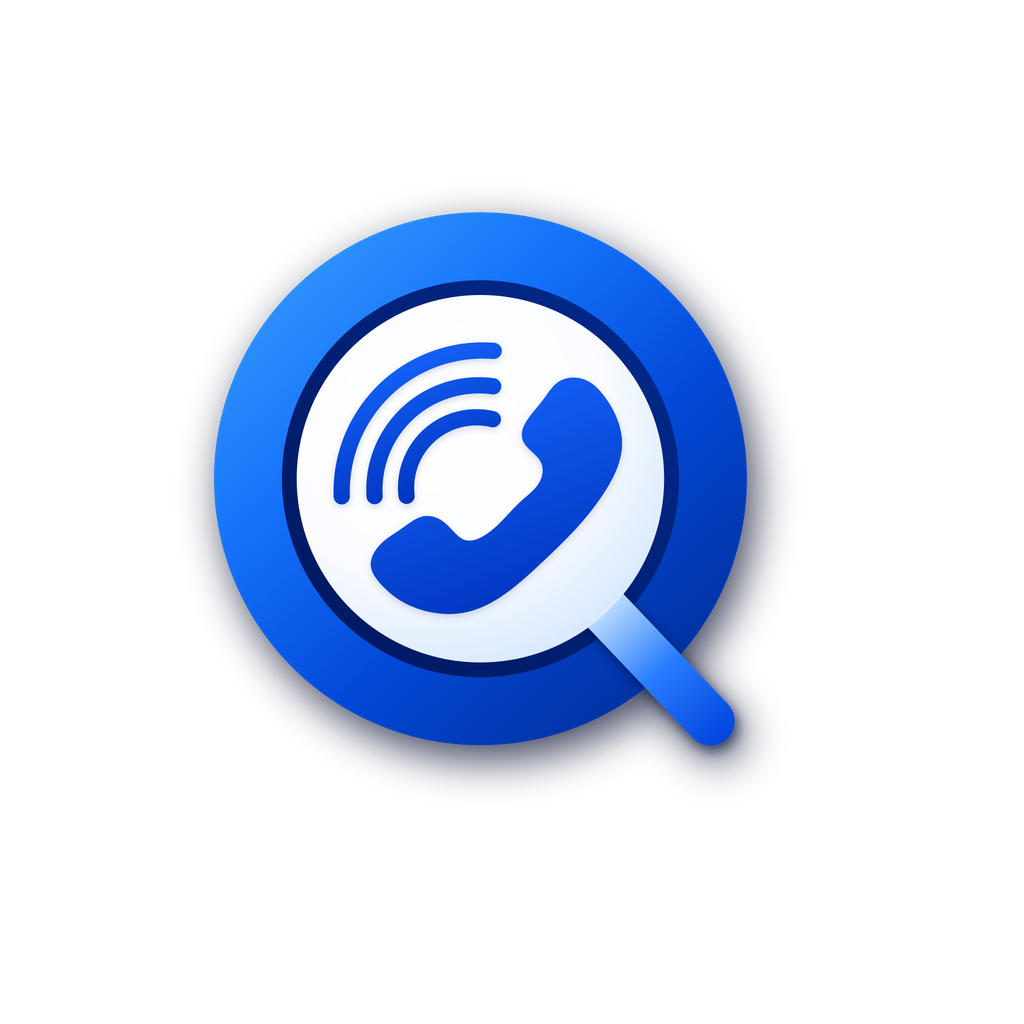
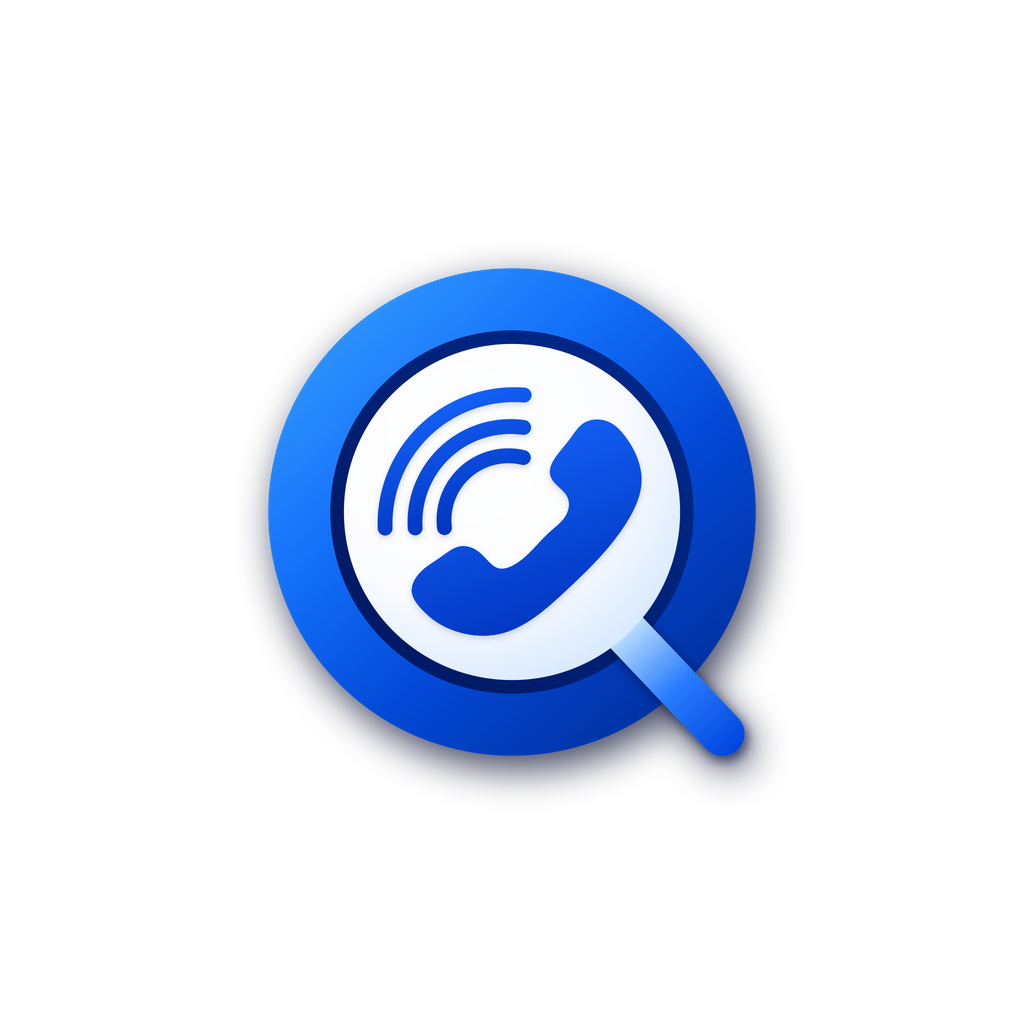
Android: lupa ikonka markaziga olindi; «romb» uslubi qo'shildi
- Adaptiv ikonkada lupa markazi aynan tuval markazida (avval dasta
  tomonga surilgan edi — Android'da lupa burchakka siljib ko'rinardi)
- tool/icon_romb.py: asl dizayn (yumaloq romb, tekis ranglar, oq fon)
- python3 tool/make_icons.py romb — shu uslubdagi barcha ikonkalar

Claude-Session: https://claude.ai/code/session_01C6ioWyqxUh5f1tL6mQytvS

Changed region(s): [[0.1875, 0.1875, 0.7812, 0.7812], [0.6875, 0.6875, 0.75, 0.75]]

diff --git a/tool/icon_romb.py b/tool/icon_romb.py
@@ -1,0 +1,150 @@
+"""«Romb» uslubidagi belgi: asl dizayn — yumaloq romb ichida lupa.
+
+make_icons.py tomonidan ishlatiladi:  python3 tool/make_icons.py romb
+
+Birlik: (0,0) — linza markazi, linza radiusi 309. Shakl foydalanuvchi
+bergan asl rasmdan o'lchab olingan; ranglar tekis (asl rasmdagidek).
+"""
+
+import math
+
+# Go'shak — asl rasmdan ko'chirilgan kontur
+HANDSET = (
+    'M -53.4 209.7 L -58.2 210.2 L -63.0 210.5 L -67.9 210.6 L -72.8 210.5 '
+    'L -77.7 210.1 L -82.5 209.5 L -87.3 208.6 L -92.0 207.4 L -96.6 206.0 '
+    'L -101.1 204.4 L -105.5 202.4 L -109.8 200.3 L -114.0 197.9 '
+    'L -118.0 195.3 L -122.0 192.5 L -125.9 189.6 L -129.8 186.6 '
+    'L -133.6 183.6 L -137.3 180.4 L -141.0 177.2 L -144.6 173.9 '
+    'L -148.2 170.5 L -151.6 167.0 L -155.0 163.4 L -158.2 159.7 '
+    'L -161.3 155.7 L -164.2 151.7 L -166.7 147.5 L -168.5 143.1 '
+    'L -169.4 138.6 L -169.4 134.0 L -168.6 129.3 L -167.1 124.6 '
+    'L -165.2 120.1 L -162.9 115.7 L -160.5 111.6 L -157.8 107.6 '
+    'L -154.9 103.8 L -151.8 100.2 L -148.5 96.8 L -145.1 93.4 L -141.6 90.2 '
+    'L -137.9 87.1 L -134.0 84.1 L -130.1 81.2 L -126.1 78.3 L -122.0 75.5 '
+    'L -117.8 72.7 L -113.6 69.9 L -109.3 67.2 L -105.0 64.5 L -100.7 61.9 '
+    'L -96.4 59.6 L -92.0 57.7 L -87.7 56.2 L -83.4 55.2 L -79.1 55.0 '
+    'L -74.8 55.5 L -70.6 57.0 L -66.5 59.3 L -62.4 62.2 L -58.7 65.7 '
+    'L -55.2 69.4 L -51.9 73.3 L -48.7 77.2 L -45.4 81.1 L -42.0 84.6 '
+    'L -38.2 87.8 L -34.2 90.5 L -30.0 92.5 L -25.5 93.8 L -20.9 94.2 '
+    'L -16.2 93.9 L -11.6 93.0 L -7.1 91.4 L -2.9 89.3 L 1.1 86.8 L 5.0 83.8 '
+    'L 8.7 80.5 L 12.3 77.1 L 15.8 73.4 L 19.2 69.8 L 22.6 66.1 L 26.0 62.5 '
+    'L 29.4 58.9 L 32.8 55.4 L 36.2 51.9 L 39.5 48.4 L 42.9 44.9 L 46.4 41.5 '
+    'L 49.8 38.1 L 53.2 34.7 L 56.7 31.3 L 60.2 27.9 L 63.8 24.6 L 67.3 21.2 '
+    'L 70.9 17.8 L 74.6 14.4 L 78.3 10.9 L 81.9 7.4 L 85.4 3.9 L 88.6 0.2 '
+    'L 91.5 -3.7 L 94.1 -7.7 L 96.1 -12.0 L 97.6 -16.5 L 98.4 -21.2 '
+    'L 98.6 -25.9 L 98.2 -30.7 L 97.0 -35.2 L 95.0 -39.5 L 92.4 -43.4 '
+    'L 89.3 -47.1 L 85.7 -50.5 L 81.9 -53.9 L 78.0 -57.2 L 74.1 -60.5 '
+    'L 70.4 -63.8 L 67.0 -67.2 L 64.1 -70.8 L 61.8 -74.7 L 60.3 -78.7 '
+    'L 59.6 -83.1 L 59.8 -87.8 L 60.7 -92.6 L 62.3 -97.4 L 64.3 -102.1 '
+    'L 66.6 -106.5 L 69.2 -110.8 L 71.9 -114.9 L 74.7 -118.8 L 77.5 -122.8 '
+    'L 80.3 -126.7 L 83.2 -130.5 L 86.1 -134.3 L 89.0 -138.1 L 92.0 -141.9 '
+    'L 95.1 -145.6 L 98.3 -149.3 L 101.6 -153.0 L 105.0 -156.5 '
+    'L 108.6 -159.9 L 112.4 -163.1 L 116.4 -166.0 L 120.5 -168.5 '
+    'L 124.9 -170.5 L 129.5 -172.1 L 134.3 -173.1 L 139.2 -173.5 '
+    'L 144.1 -173.3 L 148.7 -172.4 L 153.1 -170.7 L 157.2 -168.4 '
+    'L 161.1 -165.6 L 164.8 -162.5 L 168.4 -159.2 L 172.1 -155.9 '
+    'L 175.7 -152.6 L 179.3 -149.2 L 182.8 -145.7 L 186.2 -142.1 '
+    'L 189.5 -138.5 L 192.6 -134.7 L 195.6 -130.8 L 198.3 -126.7 '
+    'L 200.8 -122.6 L 203.2 -118.3 L 205.3 -113.9 L 207.2 -109.5 '
+    'L 208.9 -105.0 L 210.5 -100.4 L 211.8 -95.7 L 212.9 -91.1 L 213.7 -86.3 '
+    'L 214.4 -81.6 L 214.8 -76.8 L 215.1 -72.0 L 215.1 -67.2 L 214.8 -62.5 '
+    'L 214.4 -57.7 L 213.7 -53.0 L 212.8 -48.4 L 211.6 -43.7 L 210.2 -39.2 '
+    'L 208.7 -34.6 L 207.0 -30.1 L 205.0 -25.7 L 202.9 -21.3 L 200.7 -16.9 '
+    'L 198.3 -12.7 L 195.8 -8.4 L 193.2 -4.2 L 190.5 -0.1 L 187.7 4.0 '
+    'L 184.8 8.0 L 181.8 11.9 L 178.7 15.8 L 175.7 19.6 L 172.5 23.4 '
+    'L 169.4 27.1 L 166.2 30.8 L 162.9 34.4 L 159.6 38.0 L 156.3 41.5 '
+    'L 153.0 45.0 L 149.7 48.5 L 146.3 52.0 L 142.9 55.4 L 139.5 58.9 '
+    'L 136.1 62.3 L 132.6 65.7 L 129.2 69.2 L 125.7 72.6 L 122.2 76.0 '
+    'L 118.8 79.5 L 115.3 83.0 L 111.8 86.4 L 108.3 89.9 L 104.8 93.4 '
+    'L 101.3 96.9 L 97.9 100.4 L 94.4 103.9 L 90.9 107.4 L 87.4 110.9 '
+    'L 83.9 114.3 L 80.4 117.8 L 77.0 121.3 L 73.5 124.8 L 70.0 128.3 '
+    'L 66.6 131.7 L 63.1 135.2 L 59.7 138.6 L 56.2 142.0 L 52.7 145.4 '
+    'L 49.2 148.8 L 45.7 152.1 L 42.1 155.4 L 38.5 158.7 L 34.9 161.9 '
+    'L 31.2 165.1 L 27.5 168.3 L 23.8 171.3 L 20.0 174.4 L 16.1 177.4 '
+    'L 12.2 180.3 L 8.2 183.1 L 4.2 185.9 L 0.1 188.5 L -4.0 191.1 '
+    'L -8.2 193.6 L -12.5 195.9 L -16.8 198.1 L -21.2 200.1 L -25.6 202.0 '
+    'L -30.1 203.8 L -34.6 205.3 L -39.2 206.7 L -43.9 207.9 L -48.6 208.9 Z'
+)
+
+SHAPE_A = 443           # romb tomonigacha masofa (diagonal bo'yicha)
+SHAPE_N = 2.5           # superellips darajasi
+LENS_R = 309
+SHADOW = (-4, 36)       # linza soyasi (asosan pastga)
+
+HANDLE_W = 102
+NECK_END = 439          # oq bo'yin romb chetida tugaydi
+HANDLE_START = 449      # tirqishdan keyin dasta
+HANDLE_TIP = 617        # dasta uchi — belgining eng uzoq nuqtasi
+
+WAVES_C = (15, 17.5)
+WAVES_R = (116, 168.5, 220)
+WAVE_W = 22
+
+BLUE = '#235FC8'
+SHADE = '#1D50AE'
+
+# Romb uchi (o'qlar bo'yicha) — iOS joylashuvi uchun
+CORNER = SHAPE_A * 2 ** (0.5 - 1 / SHAPE_N)
+
+
+def _diag(d):
+    k = d / math.sqrt(2)
+    return round(k, 2), round(k, 2)
+
+
+def shape_path(steps=720):
+    """45° ga burilgan superellips."""
+    pts = []
+    cr = sr = math.cos(math.radians(45))
+    for i in range(steps):
+        t = 2 * math.pi * i / steps
+        c, s = math.cos(t), math.sin(t)
+        x = SHAPE_A * math.copysign(abs(c) ** (2 / SHAPE_N), c)
+        y = SHAPE_A * math.copysign(abs(s) ** (2 / SHAPE_N), s)
+        pts.append(f'{x * cr - y * sr:.2f} {x * sr + y * cr:.2f}')
+    return 'M ' + ' L '.join(pts) + ' Z'
+
+
+def _handle_path():
+    h = HANDLE_W / 2
+    k = h / math.sqrt(2)
+    sx, sy = _diag(HANDLE_START)
+    ex, ey = _diag(HANDLE_TIP - h)
+    return (f'M {sx + k:.1f} {sy - k:.1f} L {ex + k:.1f} {ey - k:.1f} '
+            f'A {h} {h} 0 0 1 {ex - k:.1f} {ey + k:.1f} L {sx - k:.1f} {sy + k:.1f} Z')
+
+
+def _waves():
+    cx, cy = WAVES_C
+    d = []
+    for r in WAVES_R:
+        a0, a1 = math.radians(180), math.radians(270)
+        d.append(f'M {cx + r * math.cos(a0):.1f} {cy + r * math.sin(a0):.1f} '
+                 f'A {r} {r} 0 0 1 {cx + r * math.cos(a1):.1f} {cy + r * math.sin(a1):.1f}')
+    return ' '.join(d)
+
+
+def body():
+    shape = shape_path()
+    nx, ny = _diag(NECK_END)
+    sdx, sdy = SHADOW
+    return f'''
+  <defs><clipPath id="romb"><path d="{shape}"/></clipPath></defs>
+  <path d="{shape}" fill="{BLUE}"/>
+  <g clip-path="url(#romb)">
+    <g transform="translate({sdx} {sdy})">
+      <circle r="{LENS_R}" fill="{SHADE}"/>
+      <line x1="0" y1="0" x2="{nx}" y2="{ny}" stroke="{SHADE}" stroke-width="{HANDLE_W}"/>
+    </g>
+    <line x1="0" y1="0" x2="{nx}" y2="{ny}" stroke="#FFFFFF" stroke-width="{HANDLE_W}"/>
+  </g>
+  <circle r="{LENS_R}" fill="#FFFFFF"/>
+  <path d="{_handle_path()}" fill="{BLUE}"/>
+  <path d="{_waves()}" fill="none" stroke="{BLUE}" stroke-width="{WAVE_W}" stroke-linecap="round"/>
+  <path d="{HANDSET}" fill="{BLUE}"/>'''
+
+
+def extents():
+    """Belgining chegaralari (birlikda): chap, yuqori, o'ng, past."""
+    tip = _diag(HANDLE_TIP)[0]
+    return -CORNER, -CORNER, max(CORNER, tip), max(CORNER, tip)

diff --git a/tool/make_icons.py b/tool/make_icons.py
@@ -3,7 +3,8 @@
 
 Ishlatish (loyiha ildizidan):
     pip install cairosvg pillow
-    python3 tool/make_icons.py
+    python3 tool/make_icons.py          # «halqa» uslubi (to'q ko'k fon)
+    python3 tool/make_icons.py romb     # asl dizayn: romb, oq fon
 
 Natija (assets/):
     icon_ios.png        1024x1024, RGB  — iOS ikonkasi (shaffofliksiz)
@@ -36,6 +37,12 @@ ROOT = os.path.dirname(os.path.dirname(os.path.abspath(__file__)))
 ASSETS = os.path.join(ROOT, 'assets')
 
 SPLASH_BG = (0x05, 0x19, 0x3F)  # pubspec.yaml: flutter_native_splash.color
+
+# Android adaptiv ikonkasi: lupa markazi AYNAN tuval markazida turadi,
+# belgining eng uzoq nuqtasi (dasta uchi) markazdan tuvalning shuncha
+# ulushida bo'ladi. Ko'rinadigan doira — 72/108 = 0.333; 0.32 da dasta
+# uchi doira chetiga tegmaydi, kvadrat/tomchi shakllarda esa bemalol sig'adi.
+ANDROID_TIP = 0.32
 
 # ── Geometriya (birlik: namunadagi piksel; (0,0) — lupa markazi) ──
 # Namuna 1254x1254, lupa markazi (619.5, 589.5) — biroz yuqorida, chunki
@@ -287,30 +294,33 @@ def main():
     icon.save(os.path.join(ASSETS, 'icon.png'), optimize=True)
 
     # ── Android adaptiv ikonkasi ──
-    # Butun belgi xavfsiz doiraga (diametri tuvalning 61% i) sig'adi.
-    # Doira markazi dasta tomonga biroz suriladi, shunda halqa va dasta
-    # uchi doira chetidan bir xil uzoqlikda bo'ladi.
-    a = math.radians(HANDLE_ANGLE)
-    shift = (HANDLE_TIP - RING_R) / 2
-    anchor = (math.cos(a) * shift, math.sin(a) * shift)
-    radius = RING_R + shift
-    ppu_a = (BIG * 0.61 / 2) / radius
-    fg = glyph(ppu_a, anchor, (BIG / 2, BIG / 2))
+    # Lupa markazi tuval markazida. (Avval markaz dasta tomonga surilgan
+    # edi — Android'da lupa yuqori-chap burchakka siljib ko'rinardi.)
+    ppu_a = BIG * ANDROID_TIP / HANDLE_TIP
+    fg = glyph(ppu_a, (0, 0), (BIG / 2, BIG / 2))
     down(fg).save(os.path.join(ASSETS, 'icon_android_fg.png'), optimize=True)
     down(bg).convert('RGB').save(os.path.join(ASSETS, 'icon_android_bg.png'),
                                  optimize=True)
 
     # ── Yuklash ekrani: bir xil rangli fon (#05193F), belgi + nom ──
     splash = Image.new('RGBA', (BIG, BIG), SPLASH_BG + (255,))
-    ppu_s = (BIG * 0.42) / (2 * radius)
+    ppu_s = BIG * 0.20 / RING_R
     gc = (BIG / 2, BIG * 0.36)
     halo = Image.new('RGBA', (BIG, BIG), (0, 0, 0, 0))
     hr = BIG * 0.22
     ImageDraw.Draw(halo).ellipse((gc[0] - hr, gc[1] - hr, gc[0] + hr, gc[1] + hr),
                                  fill=(26, 123, 252, 55))
     splash.alpha_composite(halo.filter(ImageFilter.GaussianBlur(int(BIG * 0.07))))
-    splash.alpha_composite(glyph(ppu_s, anchor, gc))
+    splash.alpha_composite(glyph(ppu_s, (0, 0), gc))
 
+    save_splash(splash)
+
+    print('Tayyor (halqa):', ', '.join(sorted(
+        f for f in os.listdir(ASSETS) if f.endswith('.png'))))
+
+
+def save_splash(splash):
+    """Nom va izohni yozib, splash_logo.png sifatida saqlaydi."""
     d = ImageDraw.Draw(splash)
     title = font(['/usr/share/fonts/opentype/inter/Inter-Bold.otf',
                   'Inter-Bold.ttf', 'DejaVuSans-Bold.ttf'], 104 * SS)
@@ -323,9 +333,61 @@ def main():
     down(splash).convert('RGB').save(os.path.join(ASSETS, 'splash_logo.png'),
                                      optimize=True)
 
-    print('Tayyor:', ', '.join(sorted(
+
+def main_romb():
+    """Asl dizayn: yumaloq romb, tekis ranglar, oq fon."""
+    import icon_romb as R
+
+    os.makedirs(ASSETS, exist_ok=True)
+    white = Image.new('RGBA', (BIG, BIG), (255, 255, 255, 255))
+    body = R.body()
+    silhouette = body.replace('fill="#FFFFFF"', 'fill="#000"')
+
+    def romb(ppu, at, size=BIG, soft=True):
+        out = Image.new('RGBA', (size, size), (0, 0, 0, 0))
+        if soft:
+            sil = render(silhouette, ppu, (0, 0), at, size)
+            out.alpha_composite(shadow(sil, (10, 40, 110), 0.28,
+                                       22 * ppu, 0, 16 * ppu))
+        out.alpha_composite(render(body, ppu, (0, 0), at, size))
+        return out
+
+    # ── iOS va oddiy Android ikonkasi ──
+    # Belgi chegaralari markazga olinadi va tuvalning 82% ini egallaydi.
+    l, t, r, b = R.extents()
+    ppu = BIG * 0.82 / max(r - l, b - t)
+    at = (BIG / 2 - (l + r) / 2 * ppu, BIG / 2 - (t + b) / 2 * ppu)
+    icon = white.copy()
+    icon.alpha_composite(romb(ppu, at))
+    icon = down(icon).convert('RGB')
+    icon.save(os.path.join(ASSETS, 'icon_ios.png'), optimize=True)
+    icon.save(os.path.join(ASSETS, 'icon.png'), optimize=True)
+
+    # ── Android adaptiv: lupa markazi tuval markazida ──
+    ppu_a = BIG * ANDROID_TIP / R.HANDLE_TIP
+    down(romb(ppu_a, (BIG / 2, BIG / 2))).save(
+        os.path.join(ASSETS, 'icon_android_fg.png'), optimize=True)
+    down(white).convert('RGB').save(
+        os.path.join(ASSETS, 'icon_android_bg.png'), optimize=True)
+
+    # ── Yuklash ekrani: ilova foni (#05193F), oq yorug'lik ustida romb ──
+    splash = Image.new('RGBA', (BIG, BIG), SPLASH_BG + (255,))
+    gc = (BIG / 2, BIG * 0.36)
+    halo = Image.new('RGBA', (BIG, BIG), (0, 0, 0, 0))
+    hr = BIG * 0.22
+    ImageDraw.Draw(halo).ellipse((gc[0] - hr, gc[1] - hr, gc[0] + hr, gc[1] + hr),
+                                 fill=(35, 95, 200, 70))
+    splash.alpha_composite(halo.filter(ImageFilter.GaussianBlur(int(BIG * 0.07))))
+    splash.alpha_composite(romb(BIG * 0.20 / R.CORNER, gc, soft=False))
+    save_splash(splash)
+
+    print('Tayyor (romb):', ', '.join(sorted(
         f for f in os.listdir(ASSETS) if f.endswith('.png'))))
 
 
 if __name__ == '__main__':
+    style = (sys.argv[1] if len(sys.argv) > 1 else 'halqa').lower()
+    if style == 'romb':
+        sys.path.insert(0, os.path.dirname(os.path.abspath(__file__)))
+        sys.exit(main_romb())
     sys.exit(main())
